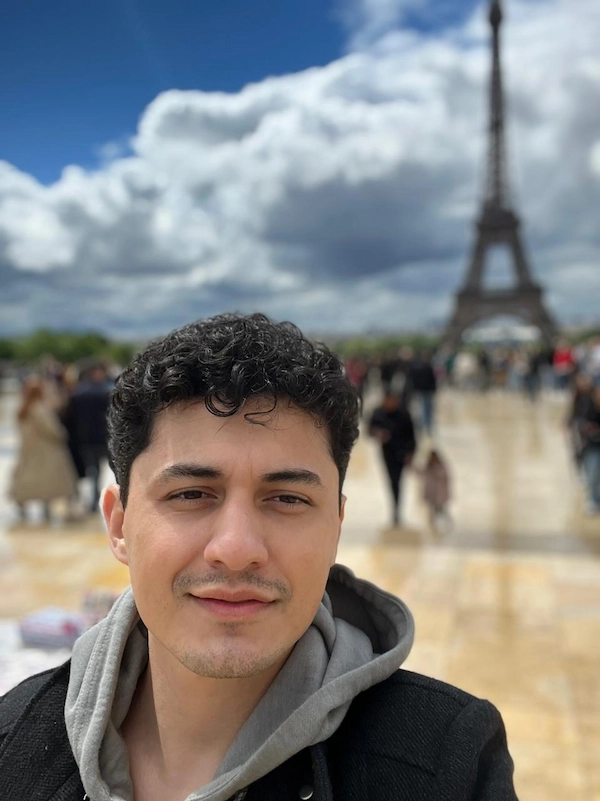
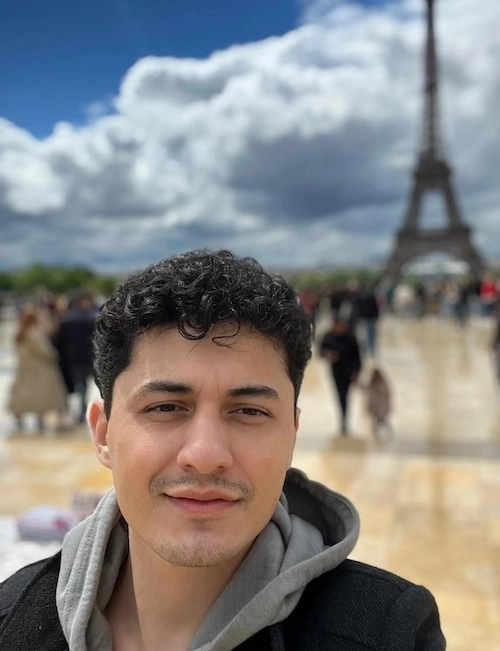
style corrections

diff --git a/index.html b/index.html
@@ -20,37 +20,39 @@
 </head>
 
 <body>
-    <header>
-        <img src="images/logo.svg" alt="Project Logo" class="name-flex">
-        <span>Matheus Morais</span>
-    </header>
-    <button type="button" id="menu" aria-label="Open Navigation Menu"></button>
+    <div class="site-header">
+        <header>
+            <img src="images/logo.svg" alt="Project Logo" class="name-flex">
+            <span>Matheus Morais</span>
+        </header>
+        <button type="button" id="menu" aria-label="Open Navigation Menu"></button>
 
-    <nav class="navigation">
-        <a href="index.html" title="Home">Home</a>
-        <a href="#" title="Chamber">Chamber Project</a>
-        <a href="#" title="Final">Final Project</a>
-    </nav>
+        <nav class="navigation">
+            <a href="index.html" title="Home">Home</a>
+            <a href="#" title="Chamber">Chamber Project</a>
+            <a href="#" title="Final">Final Project</a>
+        </nav>
+    </div>
     <main class="home-main">
         <h1>Home</h1>
 
         <section class="about-me">
             <h2>About Me</h2>
             <p>My name is Matheus Morais and I currently live in São Paulo, Brazil. I served
-            a
-            mission at Florianópolis, Santa Catarina - Brazil. I am student
-            of Web Design and Software Development at BYU Pathway Worldwide, I enjoy programming
-            and
-            learning about these things. Happily embracing fatherhood, I have two children (a 4
-            years old girl and newborn baby boy), I am married since 2017 with a wonderful wife.
-            I
-            am
-            a huge Jiu-Jitsu and American football fan.</p>
+                a
+                mission at Florianópolis, Santa Catarina - Brazil. I am student
+                of Web Design and Software Development at BYU Pathway Worldwide, I enjoy programming
+                and
+                learning about these things. Happily embracing fatherhood, I have two children (a 4
+                years old girl and newborn baby boy), I am married since 2017 with a wonderful wife.
+                I
+                am
+                a huge Jiu-Jitsu and American football fan.</p>
         </section>
 
         <section class="student-photo">
             <h2>Student Photo</h2>
-            <img class="student-photo" src="images/student-photo.webp" alt="Matheus Morais photo" loading="lazy">
+            <img src="images/student-photo.webp" alt="Matheus Morais photo" loading="lazy">
         </section>
 
         <section class="web-courses">
@@ -84,8 +86,10 @@
                 <img src="images/github-square.svg" alt="GitHub link">
             </a>
         </nav>
-        <p>©<span id="currentyear"></span> | Matheus Morais | Brazil</p>
-        <p id="lastModified"></p>
+        <div class="footer-info">
+            <p class="back">©<span id="currentyear"></span> | Matheus Morais | Brazil</p>
+            <p id="lastModified" class="back"></p>
+        </div>
     </footer>
 </body>
 

diff --git a/styles/small.css b/styles/small.css
@@ -41,6 +41,13 @@ header img {
     object-fit: contain;
 }
 
+.site-header {
+    position: sticky;
+    top: 0;
+    z-index: 1000;
+    background-color: var(--primary-color);
+}
+
 /* HAMBURGER MENU */
 #menu {
     font-size: 1.5rem;
@@ -94,7 +101,7 @@ header img {
 }
 
 .navigation a:hover {
-    color: var(--primary-color);
+    color: var(--third-color);
     background-color: var(--secondary-color);
 }
 
@@ -102,8 +109,9 @@ header img {
     transform: scale(1.1);
 }
 
-.navigation nav a:hover::after {
-    content: " ↼";
+.navigation a:hover::after {
+    content: "↼";
+    margin-left: 1rem;
     color: var(--white-color);
 }
 
@@ -111,7 +119,7 @@ header img {
     max-height: 320px;
 }
 
-/* MAIN CONFIG */
+/* ABOUT ME AND STUDENT PHOTO */
 main {
     max-width: 1200px;
     margin: 0 auto;
@@ -150,14 +158,18 @@ main h1 {
     padding: 1rem;
 }
 
+.student-photo {
+    padding-bottom: 1rem;
+}
+
 .student-photo img {
     width: 100%;
     max-width: 250px;
-    margin: 1rem auto;
     border-radius: 8px;
-    border: none;
+    margin: 1rem auto 0;
 }
 
+/* WEB CERTIFICATE COURSES */
 .course-filters {
     display: flex;
     gap: 0.5rem;
@@ -236,16 +248,8 @@ footer {
     flex-direction: column;
     align-items: center;
     justify-content: center;
-    gap: 0.75rem;
-    padding: 1rem 0.5rem;
-    background-color: var(--primary-color);
     color: var(--white-color);
     text-align: center;
-}
-
-footer p {
-    font-size: 1.2rem;
-    line-height: 1.3;
 }
 
 .socialmedia {
@@ -253,6 +257,9 @@ footer p {
     justify-content: center;
     align-items: center;
     gap: 1.25rem;
+    width: 100%;
+    padding: 1rem;
+
 }
 
 .socialmedia img {
@@ -270,6 +277,21 @@ footer p {
     transform: scale(1.12);
     filter: brightness(1.2);
     opacity: 0.85;
+}
+
+.footer-info {
+    background-color: var(--primary-color);
+    width: 100%;
+    padding: 0.7rem;
+    display: flex;
+    flex-direction: column;
+    align-items: center;
+    gap: 0.75rem;
+}
+
+.footer-info p {
+    font-size: 1.2rem;
+    line-height: 1.3;
 }
 
 #lastModified {

diff --git a/scripts/index.js b/scripts/index.js
@@ -122,8 +122,6 @@ function displayCourses(courseArray) {
     });
 }
 
-displayCourses(courses);
-
 // creating the function to filter the courses
 const filterButtons = document.querySelectorAll("[data-filter]");
 const totalCreditsElement = document.querySelector("#total-credits");

diff --git a/styles/large.css b/styles/large.css
@@ -68,9 +68,11 @@
         font-size: 1.3rem;
     }
 
-    footer p{
+    footer p {
         line-height: 1.4;
     }
 
-
+    .socialmedia {
+        gap: 3rem;
+    }
 }
